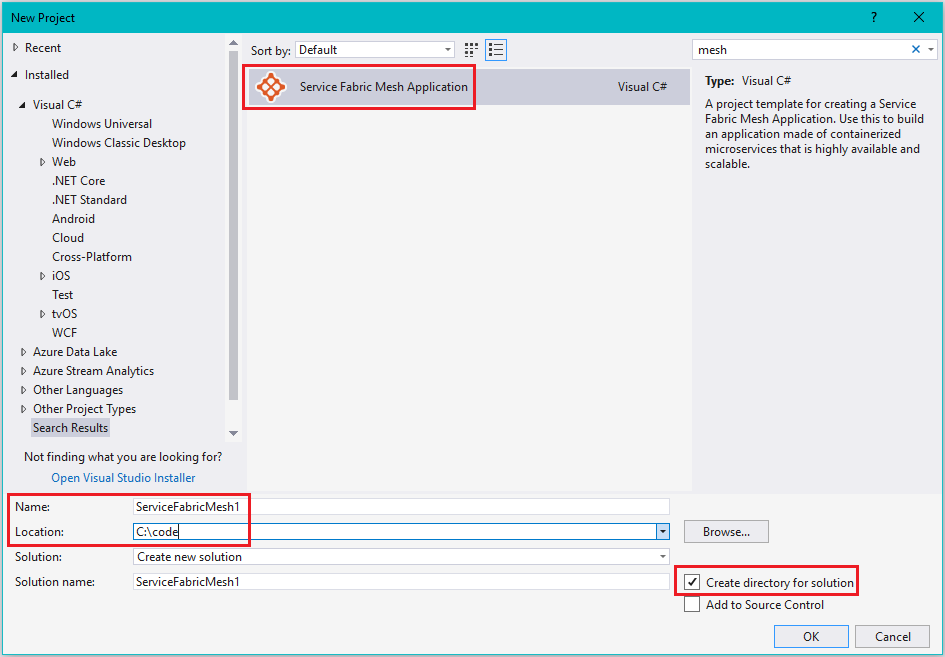
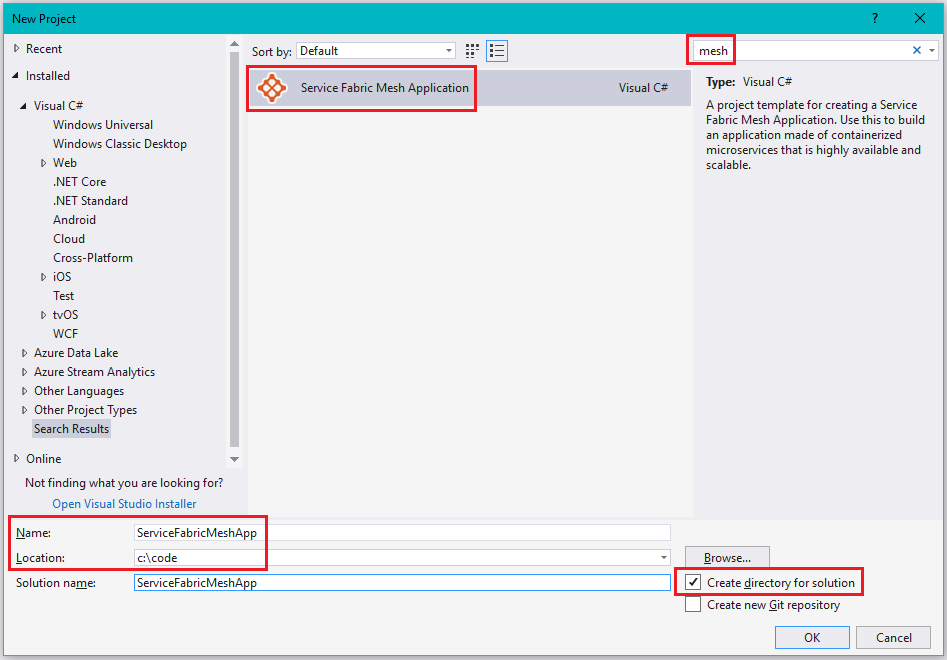
update new project name

diff --git a/docs/preview-docs/service-fabric-mesh-tutorial-create-dotnetcore.md b/docs/preview-docs/service-fabric-mesh-tutorial-create-dotnetcore.md
@@ -56,7 +56,7 @@ Run Visual Studio and select **File** > **New** > **Project...**
 
 In the **New Project** dialog, type **mesh** into the **Search** box at the top. Select the **Service Fabric Mesh Application** template.  (If you don't see the template, make sure that you installed the Mesh SDK and the VS tools preview as described in [set up your development environment](service-fabric-mesh-setup-developer-environment-sdk.md).  
 
-In the **Name** box, type **ServiceFabricApp** and in the **Location** box, set the folder path to where the files for the project will be stored.
+In the **Name** box, type **ServiceFabricMeshApp** and in the **Location** box, set the folder path to where the files for the project will be stored.
 
 Make sure that **Create directory for solution** is checked, and click **OK** to create the Service Fabric Mesh project. Next you'll see the **New Service Fabric Service** dialog.
 
